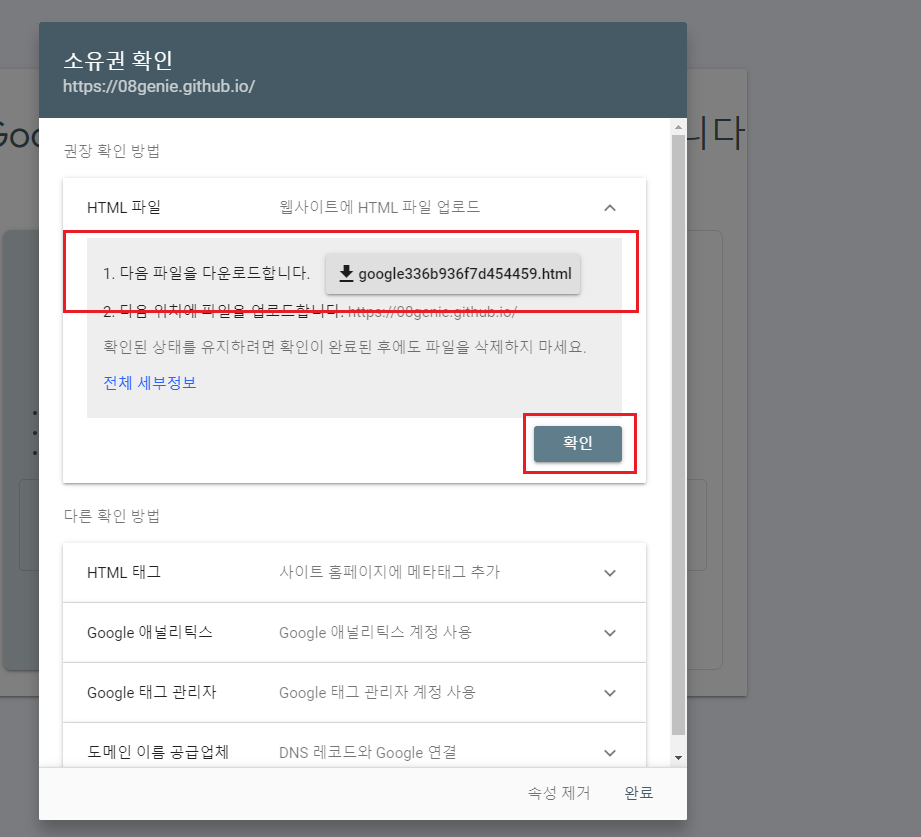
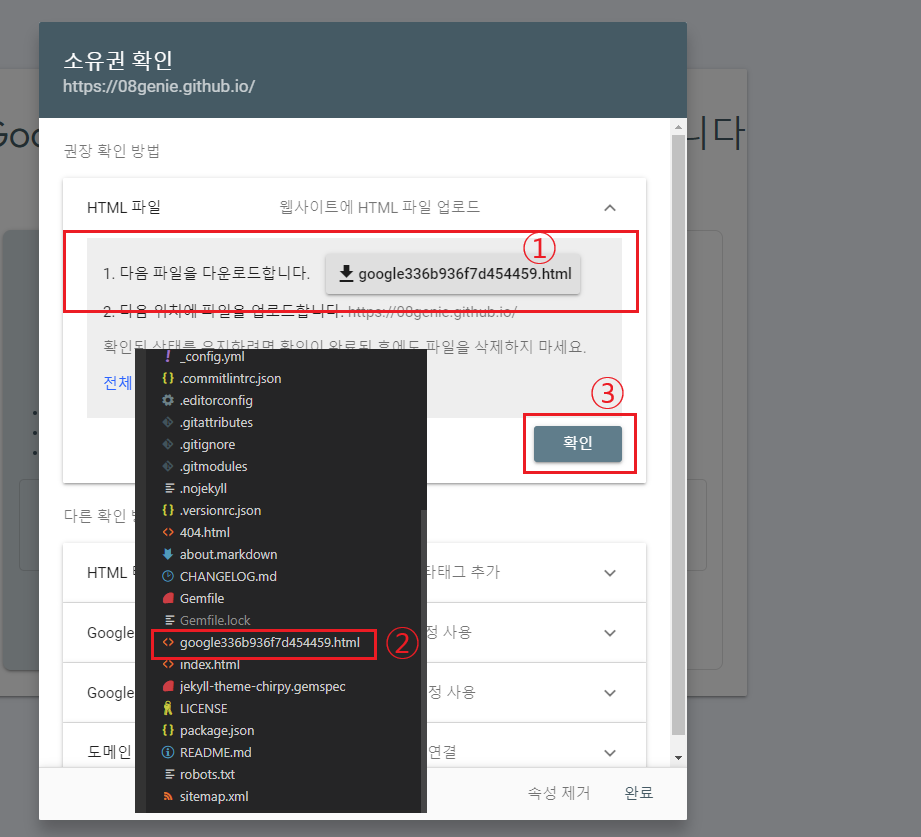
post update

Changed region(s): [[0.1216, 0.4038, 0.4864, 0.994], [0.6384, 0.4349, 0.6688, 0.497], [0.5776, 0.2796, 0.608, 0.3106]]

diff --git a/_posts/2022-09-12-github-blog-adsense.md b/_posts/2022-09-12-github-blog-adsense.md
@@ -17,20 +17,20 @@ Google Search Console이란 ? 나의 웹사이트(블로그) 포스팅이 구글
 <br>
 <br>
 
-2. html 파일을 다운로드 한 뒤 블로그의 index.html이 있는 최상위 폴더에 다운로드한 html파일을 넣어 줍니다. Github Desktop을 이용해 commit과 push를 해준 후 확인 버튼을 클릭합니다.
+2. 아래와 같이 ① html 파일 클릭하여 다운로드 한 뒤 ② 블로그 작업폴더에서 최상위 폴더인 index.html이 있는 위치에 다운로드한 html파일을 넣어 줍니다. Github Desktop을 이용해 commit과 push를 해준 후 서치콘솔 페이지로 돌아와 ③ 확인 버튼을 클릭합니다.
 ![Desktop View](/assets/img/2022-09-12/2.png){: width="100%" }
 <br>
 <br>
 <br>
 
-3. 소유권이 확인되었다면 내가 쓴 포스팅이 Google이 읽을 수 있도록 추가적인 작업이 필요합니다. 블로그의 Gemfile 맨 아래 부분에 문구를 추가해줍니다.
+3. 소유권이 확인되었다면 내가 쓴 포스팅이 Google이 읽을 수 있도록 추가적인 작업이 필요합니다. 블로그 작업폴더로 돌아와 이전 단계와 같은 위치에서 Gemfile을 열어 맨 아래 부분에 문구를 추가해줍니다.
 ```
     gem 'jekyll-sitemap'
 ```
 <br>
 <br>
 
-4. ``Start Command Prompt with Ruby``를 실행 후 블로그가 있는 폴더로 이동 한 뒤 아래 명령어를 입력해줍니다.
+4. ``Start Command Prompt with Ruby``를 실행 후 블로그 작업폴더로 이동 한 뒤 아래 명령어를 입력해줍니다.
 ```
     bundle install
 ```
@@ -43,14 +43,14 @@ Google Search Console이란 ? 나의 웹사이트(블로그) 포스팅이 구글
 <br>
 <br>
 
-6. 아래의 명령어를 통해 서버를 실행시키고 [**http://localhost:4000/sitemap.xml**](http://localhost:4000/sitemap.xml)로 접속 후 해당 페이지를 복사합니다.
+6. 아래의 명령어를 통해 서버를 실행시키고 [**http://localhost:4000/sitemap.xml**](http://localhost:4000/sitemap.xml)로 접속 후 해당 페이지를 복사합니다.(페이지가 로딩되지 않는다면 잠시 후 다시 시도해주세요)
 ```
 jekyll serve
 ```
 <br>
 <br>
 
-7. 이전 단계와 동일한 index.html이 있는 폴더에 sitemap.xml 파일을 생성 후 복사한 내용을 붙여넣기 합니다.
+7. 블로그 작업 폴더에서 이전 단계와 동일한 index.html이 있는 위치에 sitemap.xml 파일을 생성 후 복사한 내용을 붙여넣기 합니다.
 <br>
 <br>
 
@@ -73,7 +73,7 @@ jekyll serve
 
 ## Google Analytics
 ---
-Google Analytics이란 ? 나의 웹사이트(블로그)에 누가, 언제 , 얼마나 접속하였는지 여러 요소들을 분석해주는 서비스 입니다.
+Google Analytics란 ? 나의 웹사이트(블로그)에 누가, 언제 , 얼마나 접속하였는지 여러 요소들을 분석해주는 서비스 입니다.
 <br>
 <br>
 
@@ -134,13 +134,13 @@ Google Adsense란 ? 웹사이트(블로그)의 소유자가 자신의 웹 페이
 <br>
 <br>
 
-1. 먼저 [**Google Adsense**](https://www.google.co.kr/adsense/start/)로 이동 후 첫화면에서 ``시작`` 버튼을 클릭 합니다. 그 후 왼쪽 ``정보 입력`` 버튼을 클릭하여 정보를 입력하고 입력 완료 후 오른쪽 ``시작`` 버튼을 클릭합니다. 
+1. 먼저 [**Google Adsense**](https://www.google.co.kr/adsense/start/)로 이동 후 첫화면에서 ``시작`` 버튼을 클릭 합니다. 그 후 왼쪽 ``정보 입력`` 버튼을 클릭하여 정보를 입력하고 입력 완료 후 오른쪽 ``시작하기`` 버튼을 클릭합니다. 
 ![Desktop View](/assets/img/2022-09-12/12.png){: width="100%" }
 <br>
 <br>
 <br>
 
-2. 구글 애드센스 script 코드를 _includes > head.html 파일에 붙여 넣어 줍니다.
+2. 구글 애드센스 script 코드를 복사하여 블로그 작업폴더 > _includes > head.html 파일에 <head> 태그 안 마지막 부분에 붙여 넣어 줍니다.
 ```html
     <script async src="https://pagead2.googlesyndication.com/pagead/js/adsbygoogle.js?client=ca-pub-6399446934234400"
     crossorigin="anonymous"></script>
